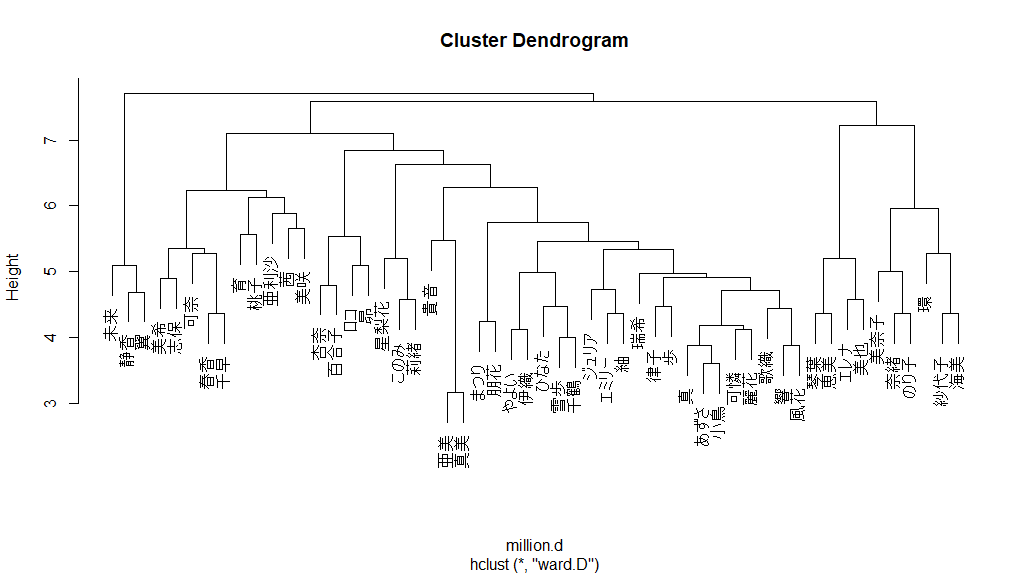
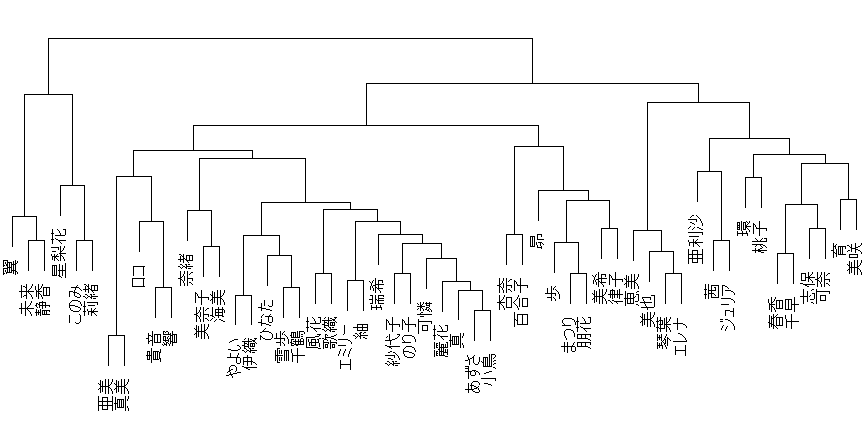
4コマ修正

diff --git a/tsunagaru/tsunagaru.html b/tsunagaru/tsunagaru.html
@@ -120,13 +120,7 @@ const items = [
 		'taikei.png',
 		'https://tankarup.github.io/MillionLive-analysis/texts/idol_pca/idol_pca.html',
 	],
-	
-	[
-		'[分析]仲良しグループを探せ',
-		'ミリシタ4コマの登場回を分析。同じ話に登場すると仲が良いとみなして、階層型クラスタリングしました。',
-		'4koma.png',
-		'https://tankarup.github.io/MillionLive-analysis/tsunagaru.html',
-	],
+
 	
 	[
 		'[ツール]誕生日を教えて',
@@ -184,6 +178,13 @@ const items = [
 		'Microsoft Officeの配色を担当アイドルのイメージカラーに変えてしまいましょう。',
 		'office.png',
 		'https://tankarup.github.io/Idols-for-office/office_color.html',
+	],
+		
+	[
+		'[分析]仲良しグループの探索と差別の構造',
+		'ミリシタ4コマの登場回を分析。同じ話に登場すると仲が良いとみなして、階層型クラスタリングしました。また登場回数が著しく偏っている現象を追求しました。',
+		'4koma.png',
+		'https://tankarup.github.io/MillionLive-analysis/texts/4koma/4koma.html',
 	],
 ];
 
